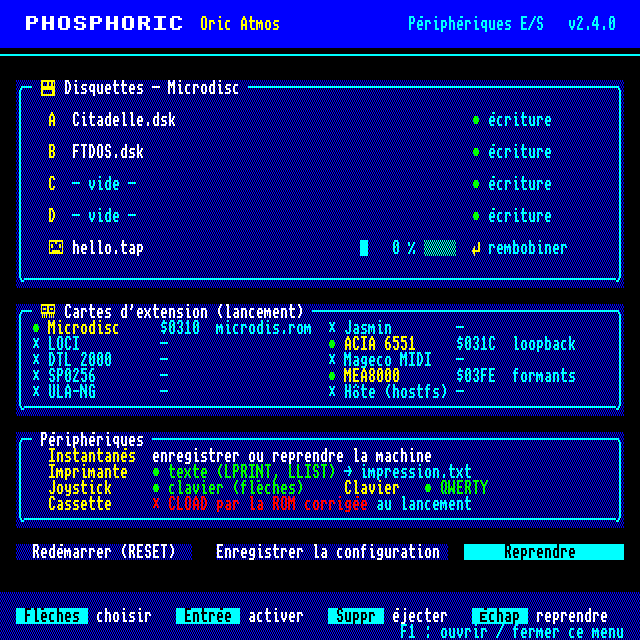
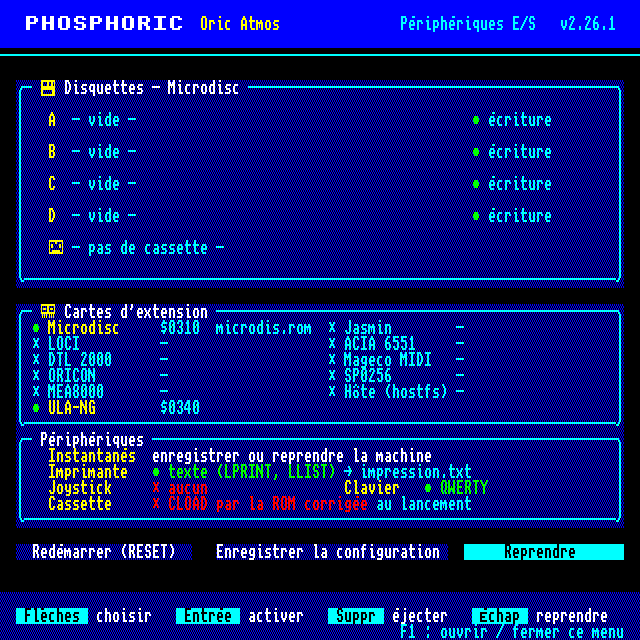
Manuel utilisateur du menu F1 (2.26.2)
docs/user-guide/MENU-F1.md : ouverture et pause, touches par page,
disquettes, cassette, périphériques, boutons, cartes d'extension (page
d'une carte, types de réglages, groupes exclusifs, cartes et réglages,
LOCI et ses trois modes), messages d'erreur, phosphoric.cfg. Rédigé
d'après iomenu.c, iomenu_glue.c et le registre des cartes.

Capture du menu refaite ; liens depuis le README et le guide.
make tests complet : 0 échec.

diff --git a/include/emulator.h b/include/emulator.h
@@ -47,7 +47,7 @@
 #include "io/ula_ng.h"
 #include "network/cast_server.h"
 
-#define EMU_VERSION "2.26.1"
+#define EMU_VERSION "2.26.2"
 
 /**
  * @brief ORIC machine model

diff --git a/docs/user-guide/MENU-F1.md b/docs/user-guide/MENU-F1.md
@@ -1,0 +1,222 @@
+# Le menu F1 — manuel utilisateur
+
+Le menu **F1** (« Périphériques E/S ») règle tout ce qui entoure l'Oric : disquettes,
+cassette, cartes d'extension, instantanés, imprimante, joystick, clavier. Il remplace
+la plupart des options de la ligne de commande pendant que la machine tourne.
+
+![Page principale du menu F1](../images/menu-peripheriques.png)
+
+## 1. Ouvrir et fermer
+
+- **F1** ouvre le menu ; **F1** ou **Échap** le referme.
+- Pendant que le menu est ouvert, **la machine est figée et le son coupé**. Elle
+  reprend exactement où elle en était.
+- Le menu occupe tout l'écran. Les touches tapées ne vont pas à l'Oric.
+- Le dernier résultat (réussite en jaune, erreur en rouge) s'affiche au-dessus de la
+  barre d'aide, par exemple « Lecteur A : SEDORIC.DSK ».
+
+## 2. Les touches
+
+La barre du bas rappelle les touches de la page en cours.
+
+| Touche | Page principale | Sélecteur de fichiers | Page d'une carte |
+|---|---|---|---|
+| ↑ ↓ | changer de ligne | changer de fichier | changer de réglage |
+| ← → | colonne d'une ligne (média / protection, rembobiner), passer d'un bouton à l'autre | ← : fermer le sélecteur | ← : revenir à la liste des cartes |
+| Entrée | activer la ligne | choisir le fichier | modifier le réglage |
+| Suppr ou Retour arrière | éjecter (lecteur, cassette) | — | remettre le réglage par défaut |
+| Échap | reprendre la machine | fermer le sélecteur | revenir à la liste des cartes |
+| Début / Fin | première / dernière ligne | premier / dernier fichier | — |
+| Page préc. / Page suiv. | — | 20 fichiers plus haut / plus bas | — |
+| Une lettre | — | aller au fichier suivant qui commence par cette lettre | — |
+
+## 3. La page principale
+
+### Disquettes A à D
+
+Le titre du cadre indique l'interface disque en place : **Microdisc**, **Jasmin**,
+**LOCI**, ou « pas d'interface disque ». Sans interface, rien ne se monte : il faut
+d'abord activer une carte disque (section 4).
+
+- **Entrée** sur un lecteur ouvre le sélecteur de fichiers (images `.dsk`). La
+  première ligne, « Éjecter la disquette », vide le lecteur.
+- **Suppr** éjecte directement.
+- **→** puis **Entrée** bascule la **protection en écriture** du lecteur
+  (« écriture » / « protégée »). Avec LOCI, il n'y a pas de protection par lecteur :
+  cette colonne n'apparaît pas.
+- Une même image ne peut pas être dans deux lecteurs à la fois (le menu refuse).
+- Avec `--disk-writeback` au lancement, une disquette modifiée est réécrite dans son
+  fichier `.dsk` quand on l'éjecte ou qu'on la remplace. Sans cette option, les
+  écritures de l'Oric restent en mémoire et sont perdues à l'éjection. Avec la LOCI
+  en mode `intégré`, l'éjection écrit les secteurs modifiés.
+- « — absent — » : ce lecteur n'existe pas sur l'interface en place.
+- Avec la LOCI en mode `firmware` ou `usb`, c'est son propre menu qui monte les
+  disquettes (bouton MENU : **F8**) ; le menu F1 le rappelle.
+
+### Cassette
+
+- **Entrée** ouvre le sélecteur (fichiers `.tap`). La première ligne éjecte.
+- **Suppr** éjecte.
+- **→** puis **Entrée** rembobine la cassette au début.
+- La ligne montre le nom, l'état du moteur, le pourcentage lu et une jauge.
+- Une fois la cassette insérée, taper `CLOAD""` dans l'Oric.
+
+### Cartes d'extension
+
+Le cadre résume les cartes : **●** présente (avec son adresse et son réglage
+principal), **✗** absente. **Entrée** sur ce cadre ouvre la liste des cartes
+(section 4).
+
+### Périphériques
+
+| Ligne | Entrée fait | Détail |
+|---|---|---|
+| **Instantanés** | ouvre le sélecteur des `.ost` | première ligne « Enregistrer un nouvel instantané » → `snapshots/etatNNNN.ost` (numéro libre suivant). Choisir un instantané **reprend la machine à cet instant** et ferme le menu. |
+| **Imprimante** | coupée → texte → traceur MCP-40 → coupée | texte : `LPRINT`, `LLIST` vont dans `impression.txt` ; traceur : `traceur.bmp`, écrit à la coupure. |
+| **Joystick** | aucun → clavier → manette → aucun | clavier : flèches du clavier + tir ; manette : la première manette branchée (sinon elle est attendue). |
+| **Clavier** | QWERTY ↔ AZERTY | disposition du clavier du PC traduite pour l'Oric. |
+| **Cassette** (au lancement) | CLOAD par la ROM corrigée ↔ injection directe | ne vaut **qu'au prochain lancement** : penser à « Enregistrer la configuration ». |
+
+### Les trois boutons
+
+- **Redémarrer (RESET)** : comme F5, redémarre le 6502 (bouton reset de la LOCI si
+  elle est là ; les disquettes restent montées) et ferme le menu.
+- **Enregistrer la configuration** : écrit `phosphoric.cfg` (section 6).
+- **Reprendre** : ferme le menu (comme Échap ou F1).
+
+## 4. Les cartes d'extension
+
+**Entrée** sur le cadre « Cartes d'extension » ouvre la liste. Chaque ligne montre
+la carte, « présente » ou « absente », et une étoile rouge **\*** si elle a été
+modifiée. Sous la liste, l'explication de la carte sélectionnée.
+
+- **Entrée** sur une carte ouvre sa page.
+- **Appliquer et redémarrer** relance l'émulateur avec les cartes choisies. C'est un
+  **redémarrage à froid** : le programme se relance avec la même ligne de commande,
+  moins les options de cartes, plus les nouvelles. La machine repart de zéro.
+- **Annuler les changements** revient aux cartes de la machine en cours.
+- Si deux cartes se chevauchent en mémoire, ou si un réglage manque, le menu
+  l'indique en rouge et **refuse d'appliquer** (voir section 5).
+
+### Page d'une carte
+
+- Première ligne **Carte** : **Entrée** la rend présente ou absente.
+- Puis un réglage par ligne, avec son explication en bas de page, sa valeur par
+  défaut et ce que fait Entrée :
+
+| Type de réglage | Entrée fait |
+|---|---|
+| fichier (ROM, image) | ouvre le sélecteur (dossiers `roms`, `roms/loci`, `disks`, `tapes`, `media` et le dossier courant) ; « Aucun fichier » vide la valeur |
+| texte, dossier, nombre | ouvre la saisie : taper, **Entrée** valide, **Suppr** efface, **Échap** annule |
+| adresse d'E/S | saisie en hexadécimal, contrôlée entre `0300` et `03FF` |
+| oui / non | bascule |
+| choix | passe à la valeur suivante |
+
+**Suppr** remet le réglage à sa valeur par défaut.
+
+### Groupes exclusifs
+
+Une seule carte par groupe à la fois ; en activer une éteint l'autre :
+
+- groupe **disque** : Microdisc, Jasmin, LOCI ;
+- groupe **midi** : Mageco MIDI, ORICON.
+
+### Les cartes et leurs réglages
+
+| Carte | Rôle | Réglages (valeur par défaut) |
+|---|---|---|
+| **Microdisc** | contrôleur de disquettes Oric (WD1793), 4 lecteurs, en `$0310` | ROM du contrôleur (`roms/microdis.rom`) |
+| **Jasmin** | contrôleur de disquettes Jasmin (WD177x, TDOS), en `$03F4` | ROM de démarrage (`roms/jasmin.rom`) |
+| **LOCI** | cartouche LOCI, en `$03A0` ; voir ci-dessous | Mode, puis les réglages de ce mode |
+| **ACIA 6551** | port série : modem, terminal, Minitel, BBS | Ligne série (`loopback`), Adresse d'E/S (`031C` ; `0380` pour l'ACIA de la LOCI), Vitesse en bauds (vide : instantané), Tampon de réception (vide), Mode V23 1200/75 (non) |
+| **DTL 2000** | modem Digitelec (PIA 6821 + ACIA 6850), ligne V23 vers un serveur Minitel | Ligne V23 (`loopback`), Adresse d'E/S (`03F8`) |
+| **Mageco MIDI** | interface MIDI (ACIA 6850 à 31 250 bauds) | Liaison MIDI (`loopback`), Adresse d'E/S (`03FE`) |
+| **ORICON** | variante MIDI en `$031C` | Liaison MIDI (`loopback`) |
+| **SP0256** | synthèse vocale Mageco (SP0256-AL2, allophones) | ROM d'allophones (`roms/al2.bin`), Adresse d'E/S (`03F1`) |
+| **MEA8000** | synthèse vocale TMPI (formants, sans ROM) | Adresse d'E/S (`03FE`) |
+| **Hôte (hostfs)** | dossier du PC monté dans l'Oric | Dossier monté (`.`) |
+| **ULA-NG** | ULA étendue (palette, modes), toujours présente en `$0340` | aucun |
+
+Valeurs possibles d'une **ligne série** (ACIA, DTL 2000) : `loopback` (écho local),
+`tcp:hôte:port`, `modem:hôte:port` (appels entrants), `pty` (pseudo-terminal),
+`com:bauds,bits,parité,stop,périphérique` (port série réel), `file:entrée[:sortie]`,
+et pour l'ACIA seulement `picowifi[:ssid[:mot_de_passe]]` (modem Wi-Fi émulé).
+**Liaison MIDI** : `loopback`, `midi[:cible]` (MIDI temps réel, si le binaire l'a),
+`smf:fichier.mid[:loop]`, `tcp:hôte:port`, `file:entrée[:sortie]`.
+
+Mageco MIDI et MEA8000 utilisent tous deux `$03FE` par défaut : changer l'adresse de
+l'un pour les avoir ensemble.
+
+### La carte LOCI et ses trois modes
+
+Le premier réglage, **Mode**, choisit quelle LOCI ; **seuls les réglages du mode
+choisi sont affichés** (les autres restent mémorisés, mais ne servent pas) :
+
+| Mode | Ce que c'est | Réglages |
+|---|---|---|
+| `intégré` | LOCI émulée par Phosphoric (`--loci`) | **Démarrer sur le menu LOCI** (oui), **Image de carte SD**, **Dossier flash interne**, **Modem Wi-Fi (picowifi)** : aucun / simulé / réel, **Port du picowifi réel** (vide : détecté) |
+| `firmware` | le vrai firmware RP2040 tourne dans l'émulateur (`--loci-emu`), pour développer le firmware | **Firmware (ELF)** (obligatoire), **Image flash du firmware** (vide : `<ELF>.flash`, « - » : volatile), **Image de clé USB** |
+| `usb` | une **LOCI-USB** branchée sur le PC (`--loci-hw`) : une Feather RP2040 fait tourner le firmware LOCI, et Phosphoric joue l'Oric par l'USB | **Port de la LOCI-USB** (vide : détecté) |
+
+- La Feather **est** la LOCI : ce n'est pas un pont vers une cartouche LOCI 1.3, et
+  elle ne se branche pas sur un vrai Oric.
+- Seuls les modes présents dans ce binaire sont proposés : `firmware` demande que
+  `~/loci/emul` ait été là à la compilation, `usb` que `~/loci/loci-usb` y ait été
+  (pas sous Windows).
+- **Détection automatique** (Linux) : un port laissé vide est cherché d'après le nom
+  USB de l'appareil (« PicoWifiModemUSB » pour le picowifi, « LOCI-USB… » pour la
+  Feather). La recherche lit `/sys` sans ouvrir le port.
+- Le **bouton MENU** de la LOCI est **F8** ; un appui de 2 secondes ou plus est un
+  appui long (diagnostic).
+- Modem LOCI et carte ACIA 6551 ne vont pas ensemble : une seule ligne série à la
+  fois.
+
+## 5. Messages d'erreur des cartes
+
+| Message | Que faire |
+|---|---|
+| « X et Y se chevauchent en $03xx » | changer l'adresse d'E/S de l'une des deux |
+| « Modem LOCI et ACIA 6551 : une seule ligne série à la fois » | retirer la carte ACIA, ou mettre le modem LOCI à « aucun » |
+| « Modem LOCI réel : aucun picowifi USB détecté » | brancher le picowifi, ou indiquer son port |
+| « LOCI : mode « … » absent de ce binaire » | choisir un autre mode (backend non compilé) |
+| « LOCI firmware : indiquer le fichier ELF du firmware » | renseigner **Firmware (ELF)** |
+| « LOCI-USB : aucune détectée (indiquer le port) » | brancher la Feather, ou indiquer son port |
+| « Version web : les cartes se choisissent au lancement » | dans le navigateur, les cartes sont en lecture seule |
+
+## 6. Enregistrer la configuration (`phosphoric.cfg`)
+
+**Enregistrer la configuration** écrit `phosphoric.cfg` dans le dossier courant (ou
+le fichier donné par `--config FICHIER`), une ligne `clé=valeur` par réglage :
+
+| Clés | Contenu |
+|---|---|
+| `a=` … `d=` | images dans les lecteurs |
+| `protection_a=oui` … | lecteurs protégés en écriture |
+| `cassette=` | cassette insérée |
+| `cassette_rapide=oui/non` | injection directe au lancement |
+| `imprimante=non/texte/mcp40`, `imprimante_fichier=` | imprimante |
+| `joystick=aucun/clavier/manette` | joystick |
+| `clavier=qwerty/azerty` | clavier |
+| `carte.<id>=oui/non` | cartes présentes (`microdisc`, `jasmin`, `loci`, `acia`, `dtl2000`, `mageco`, `oricon`, `sp0256`, `mea8000`, `hostfs`) |
+| `<id>.<réglage>=valeur` | réglages de carte différents du défaut (ex. `loci.mode=usb`, `acia.adresse=0380`) |
+
+Les lignes que le menu ne connaît pas sont conservées.
+
+À la relecture, au lancement suivant :
+
+- **la ligne de commande reste prioritaire** ; les cartes du fichier ne sont ajoutées
+  que pour celles que la ligne de commande ne mentionne pas (`--no-config-cards` les
+  ignore) ;
+- le fichier n'est **pas lu en `--headless`**, sauf `--config FICHIER` explicite ;
+- `--no-config` ou `PHOSPHORIC_NO_CONFIG=1` l'ignorent ;
+- les anciennes clés restent lues (`interface_disque=`, `rom_disque=`,
+  `carte.loci_emu`, `carte.loci_hw`, `loci.mode=réelle`, `loci.pont`…).
+
+## 7. Divers
+
+- `--menu-screenshot FICHIER` enregistre une image du menu (PPM 640 × 640) à la fin
+  de l'exécution, menu ouvert ou non.
+- Dans la version web, le menu fonctionne (médias, périphériques), mais les cartes ne
+  se changent qu'au lancement.
+- Les autres touches de fonction (F5 reset, F6 médias rapides, F8 bouton LOCI, F9
+  débogueur, F12 capture…) sont décrites dans le [guide utilisateur](README.md).

diff --git a/README.md b/README.md
@@ -9,7 +9,7 @@ FDC is still timed by fixed delays, the absolute raster/CPU phase is unobservabl
 on a stock ORIC and therefore not modelled) — is spelled out component by component in
 [docs/ACCURACY.md](docs/ACCURACY.md), with the test that would falsify each line.
 
-**Version: 2.26.1** | **70 test suites (1,362 checks), 100% pass** | **Zero memory leaks** | **Runs natively on Linux / Windows / macOS (CI-verified) & in the browser (WebAssembly)**
+**Version: 2.26.2** | **70 test suites (1,362 checks), 100% pass** | **Zero memory leaks** | **Runs natively on Linux / Windows / macOS (CI-verified) & in the browser (WebAssembly)**
 
 ```
  ____  _                      _                _
@@ -589,6 +589,8 @@ TEST 4 LOOPBACK= 10 /10            all bytes echoed back
 
 ### Peripherals menu (F1)
 
+User manual (French): [docs/user-guide/MENU-F1.md](docs/user-guide/MENU-F1.md).
+
 ![Peripherals menu](docs/images/menu-peripheriques.png)
 
 **F1** opens a full-screen menu (inspired by the Neo6502TeleStrat OSD) that manages
@@ -903,4 +905,4 @@ the MIT Licence retain their MIT notice (MIT permits their inclusion here).
 
 ---
 
-Phosphoric v2.26.1 | 70 test suites (1,362 checks) | ORIC-1 + Atmos | Linux/Windows/macOS natif (CI) + WebAssembly (browser) | VIA 6522 complet (CA2/CB2 8 modes + latching) + WD1793 (Microdisc) + WD177x (Jasmin, boot TDOS) + bad-sector injection + LOCI (menu F8 + resume, diag ROM Mike Brown, cles USB host, ABI firmware) boot Sedoric V4 + ACIA 6551/6850 + DTL 2000/Minitel V23 + PicoWiFi/TLS + MIDI Mageco/ORICON | GDB remote stub + inline assembler + memory search + Conditional/Raster BPs + Rewind + Symbols + TUI + IPC control (OricForge) + live peripheral introspection | deterministic record/replay + MJPEG/AVI capture + Chromecast | MCP-40 + Printer + Joystick | F1 peripherals menu + phosphoric.cfg | 2026-10-05
+Phosphoric v2.26.2 | 70 test suites (1,362 checks) | ORIC-1 + Atmos | Linux/Windows/macOS natif (CI) + WebAssembly (browser) | VIA 6522 complet (CA2/CB2 8 modes + latching) + WD1793 (Microdisc) + WD177x (Jasmin, boot TDOS) + bad-sector injection + LOCI (menu F8 + resume, diag ROM Mike Brown, cles USB host, ABI firmware) boot Sedoric V4 + ACIA 6551/6850 + DTL 2000/Minitel V23 + PicoWiFi/TLS + MIDI Mageco/ORICON | GDB remote stub + inline assembler + memory search + Conditional/Raster BPs + Rewind + Symbols + TUI + IPC control (OricForge) + live peripheral introspection | deterministic record/replay + MJPEG/AVI capture + Chromecast | MCP-40 + Printer + Joystick | F1 peripherals menu + phosphoric.cfg | 2026-10-05

diff --git a/docs/user-guide/README.md b/docs/user-guide/README.md
@@ -183,7 +183,7 @@ En mode AZERTY, l'emulateur utilise les evenements texte SDL2, donc la saisie fo
 
 | Touche | Fonction |
 |--------|----------|
-| F1 | Menu des périphériques E/S (disquettes, cassette, instantanés, imprimante, joystick, clavier ; voir le README) |
+| F1 | Menu des périphériques E/S (disquettes, cassette, cartes, instantanés, imprimante, joystick, clavier ; manuel : [MENU-F1.md](MENU-F1.md)) |
 | F2 | Sauvegarde rapide (quicksave) |
 | F3 | Changer l'echelle d'affichage (x1 -> x2 -> x3 -> x4) |
 | F4 | Chargement rapide (quickload) |
